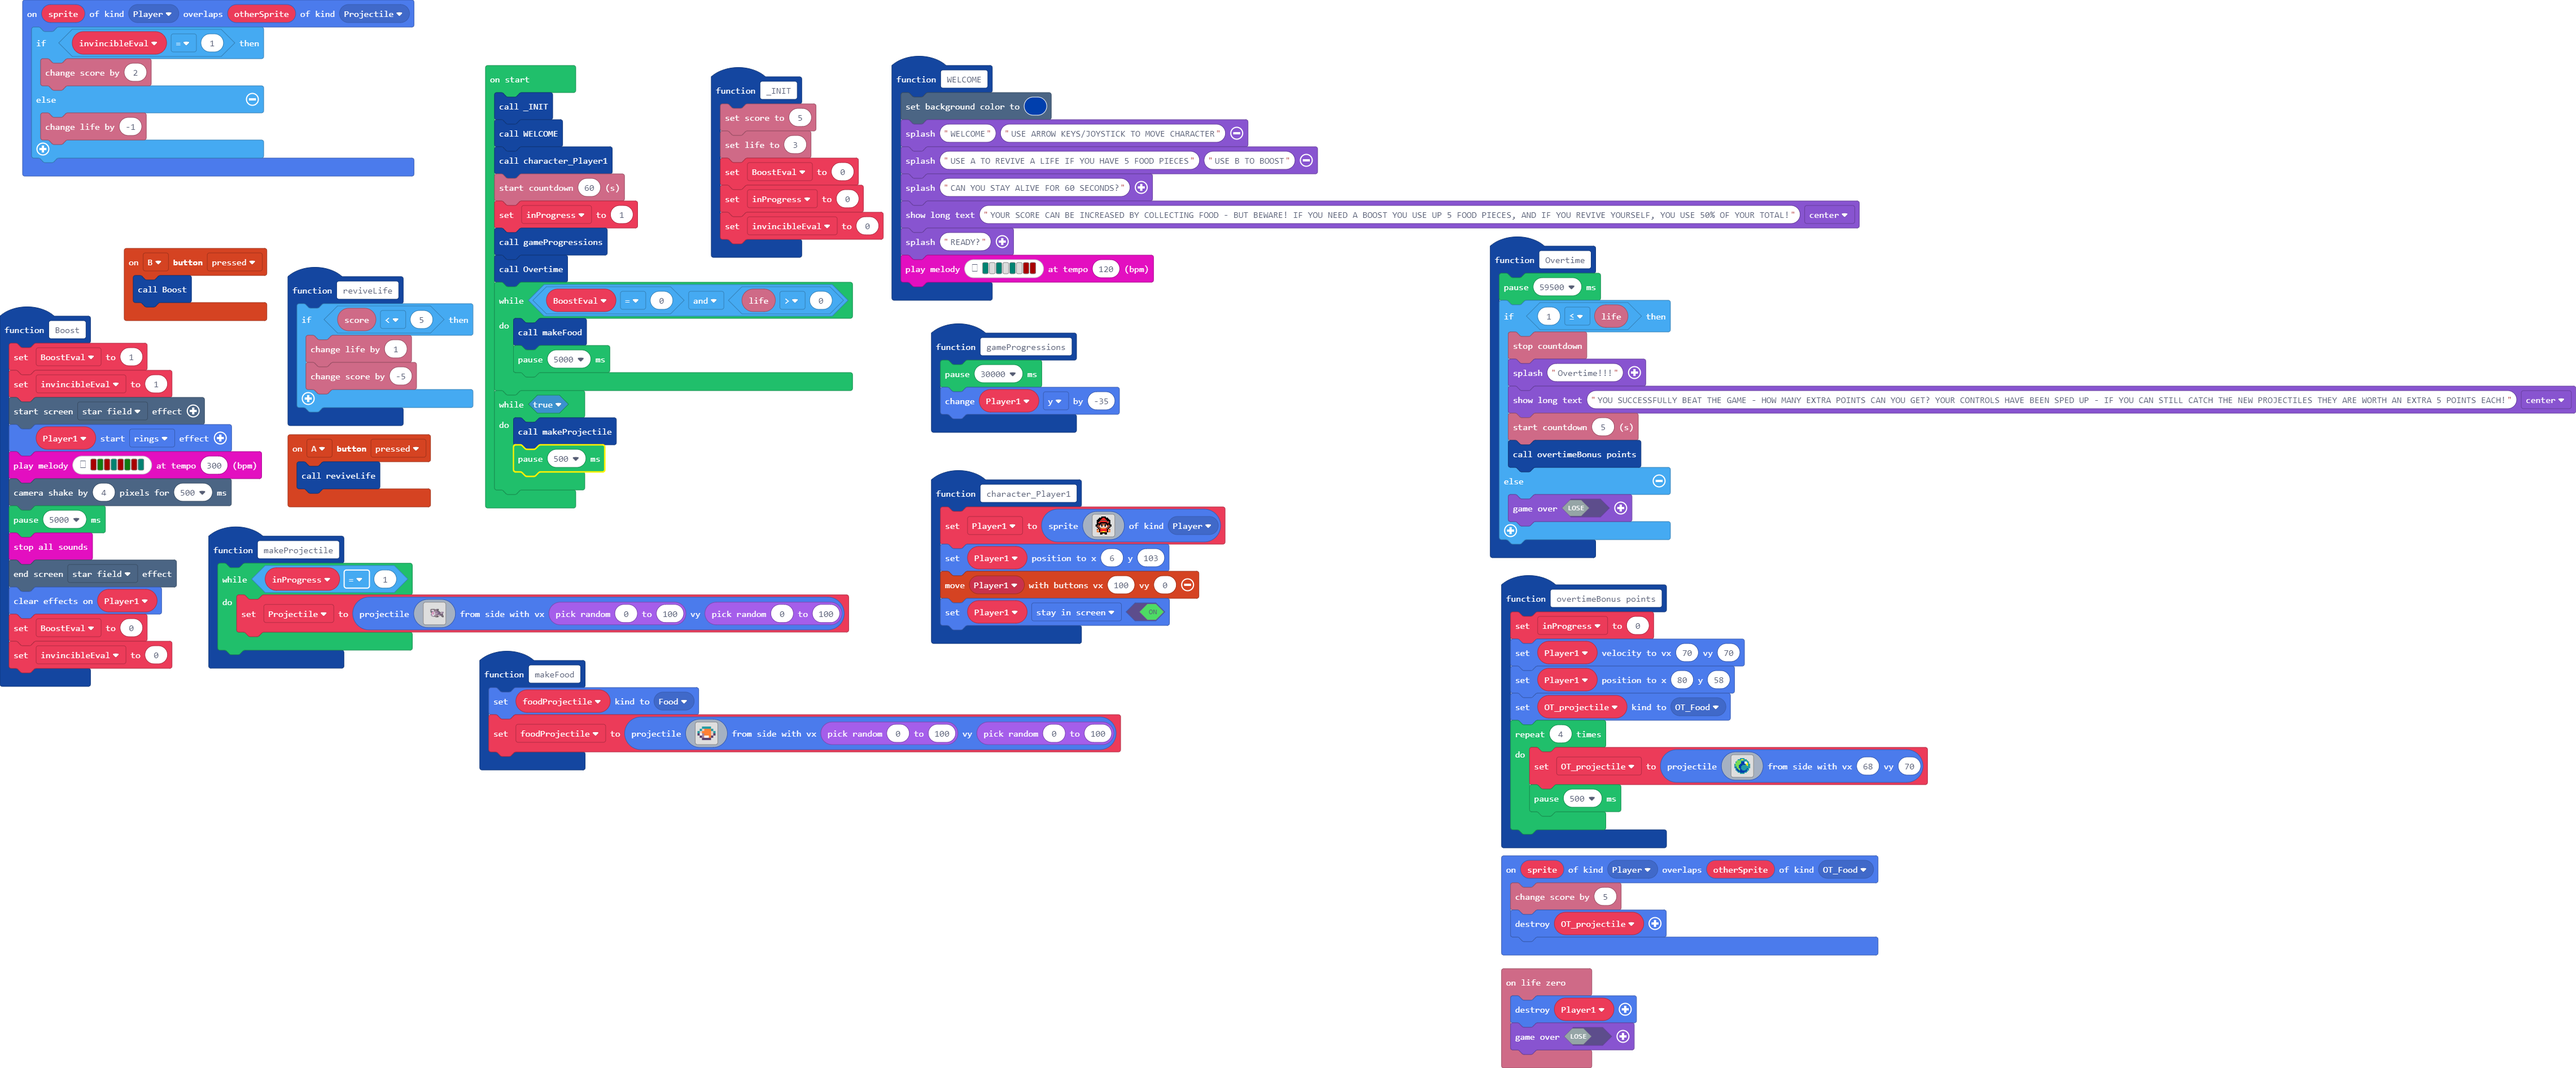
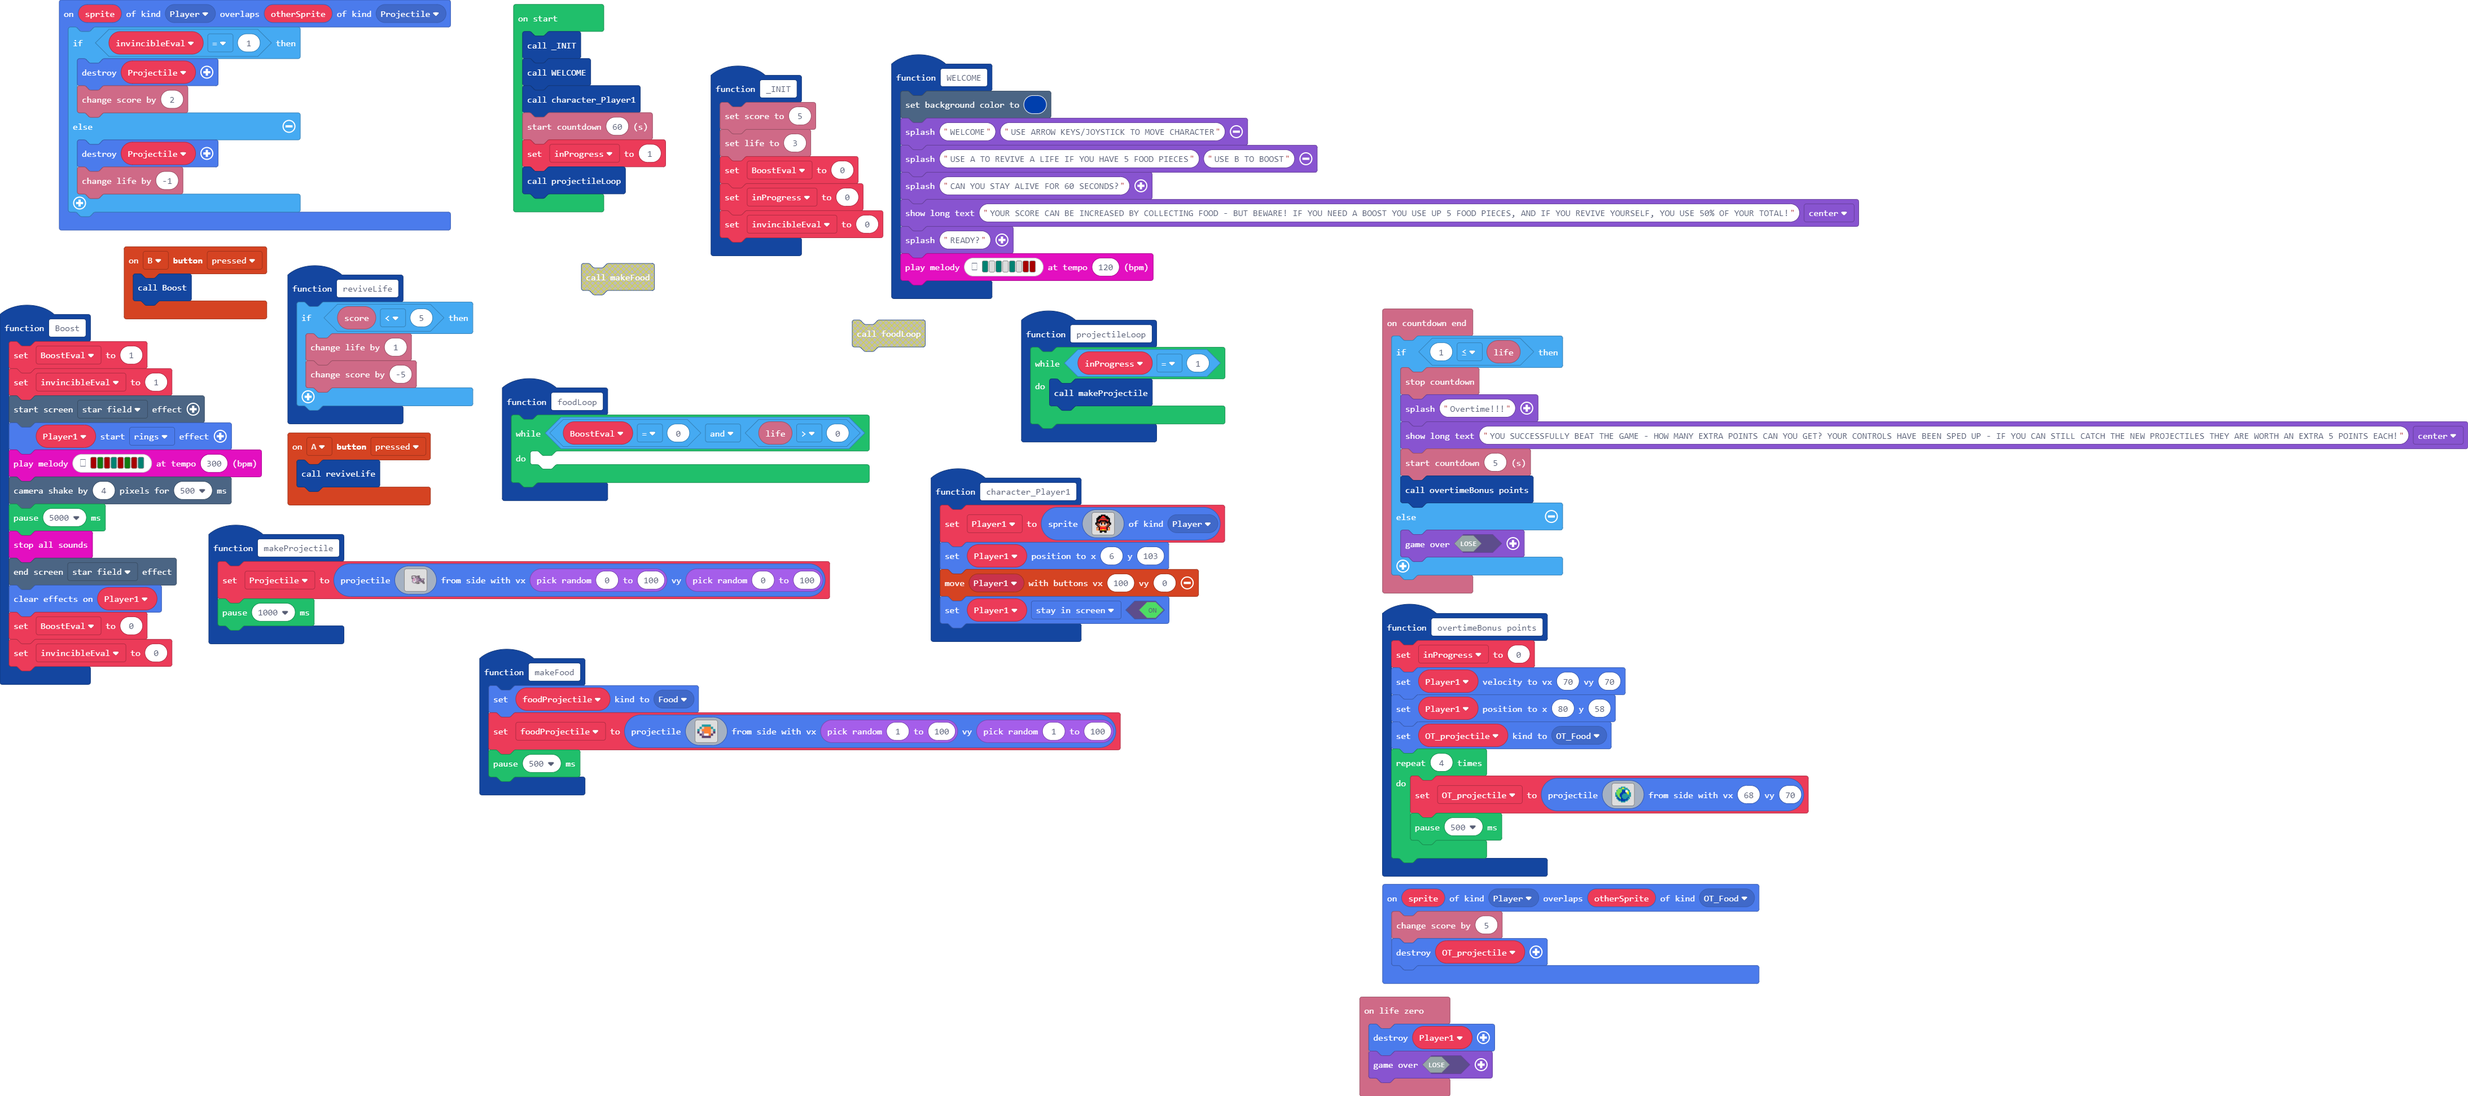
Functioning game requires bug fixes

Changed region(s): [[0.0, 0.0, 1.0, 1.0]]

diff --git a/main.ts b/main.ts
@@ -10,18 +10,17 @@ function makeFood () {
 c 1 b 4 4 4 d c 
 . c b 1 1 4 c . 
 . . c c c c . . 
-`, Math.randomRange(0, 100), Math.randomRange(0, 100))
+`, Math.randomRange(1, 100), Math.randomRange(1, 100))
+    pause(500)
 }
-function Overtime () {
-    pause(59500)
-    if (1 <= info.life()) {
-        info.stopCountdown()
-        game.splash("Overtime!!!")
-        game.showLongText("YOU SUCCESSFULLY BEAT THE GAME - HOW MANY EXTRA POINTS CAN YOU GET? YOUR CONTROLS HAVE BEEN SPED UP - IF YOU CAN STILL CATCH THE NEW PROJECTILES THEY ARE WORTH AN EXTRA 5 POINTS EACH!", DialogLayout.Center)
-        info.startCountdown(5)
-        overtimeBonus_points()
-    } else {
-        game.over(false)
+function projectileLoop () {
+    while (inProgress == 1) {
+        makeProjectile()
+    }
+}
+function foodLoop () {
+    while (BoostEval == 0 && info.life() > 0) {
+    	
     }
 }
 function character_Player1 () {
@@ -47,10 +46,6 @@ function character_Player1 () {
     controller.moveSprite(Player1, 100, 0)
     Player1.setFlag(SpriteFlag.StayInScreen, true)
 }
-function gameProgressions () {
-    pause(30000)
-    Player1.y += -35
-}
 controller.B.onEvent(ControllerButtonEvent.Pressed, function () {
     Boost()
 })
@@ -62,8 +57,10 @@ function reviveLife () {
 }
 sprites.onOverlap(SpriteKind.Player, SpriteKind.Projectile, function (sprite, otherSprite) {
     if (invincibleEval == 1) {
+        Projectile.destroy()
         info.changeScoreBy(2)
     } else {
+        Projectile.destroy()
         info.changeLifeBy(-1)
     }
 })
@@ -80,8 +77,7 @@ function WELCOME () {
     music.playMelody("F - F - F - C5 C5 ", 120)
 }
 function makeProjectile () {
-    while (inProgress == 1) {
-        Projectile = sprites.createProjectileFromSide(img`
+    Projectile = sprites.createProjectileFromSide(img`
 . . . . . . . . . . . f f f f f f f . . . c c f f f . . . . . . . . . . 
 . . . . . . . . . . f b b b b b b b f f c b b b b f . . . . . . . . . . 
 . . . . . . . . . . f b b 1 1 1 b b b b b f f b f . . . . . . . . . . . 
@@ -99,7 +95,7 @@ function makeProjectile () {
 . . . . . . . . . . . . . . c c c f f f b d b b f c c . . . . . f b b f 
 . . . . . . . . . . . . . . . . . . . . f f f f f . . . . . . . . f f f 
 `, Math.randomRange(0, 100), Math.randomRange(0, 100))
-    }
+    pause(1000)
 }
 function overtimeBonus_points () {
     inProgress = 0
@@ -128,6 +124,17 @@ function overtimeBonus_points () {
         pause(500)
     }
 }
+info.onCountdownEnd(function () {
+    if (1 <= info.life()) {
+        info.stopCountdown()
+        game.splash("Overtime!!!")
+        game.showLongText("YOU SUCCESSFULLY BEAT THE GAME - HOW MANY EXTRA POINTS CAN YOU GET? YOUR CONTROLS HAVE BEEN SPED UP - IF YOU CAN STILL CATCH THE NEW PROJECTILES THEY ARE WORTH AN EXTRA 5 POINTS EACH!", DialogLayout.Center)
+        info.startCountdown(5)
+        overtimeBonus_points()
+    } else {
+        game.over(false)
+    }
+})
 info.onLifeZero(function () {
     Player1.destroy()
     game.over(false)
@@ -161,21 +168,12 @@ let OT_projectile: Sprite = null
 let Projectile: Sprite = null
 let invincibleEval = 0
 let Player1: Sprite = null
-let foodProjectile: Sprite = null
 let BoostEval = 0
+let foodProjectile: Sprite = null
 let inProgress = 0
 _INIT()
 WELCOME()
 character_Player1()
 info.startCountdown(60)
 inProgress = 1
-gameProgressions()
-Overtime()
-while (BoostEval == 0 && info.life() > 0) {
-    makeFood()
-    pause(5000)
-}
-while (true) {
-    makeProjectile()
-    pause(500)
-}
+projectileLoop()
